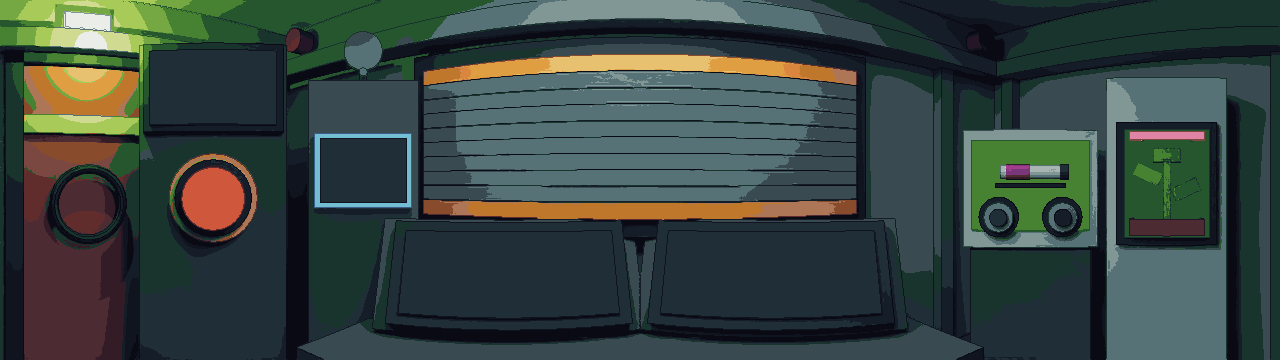
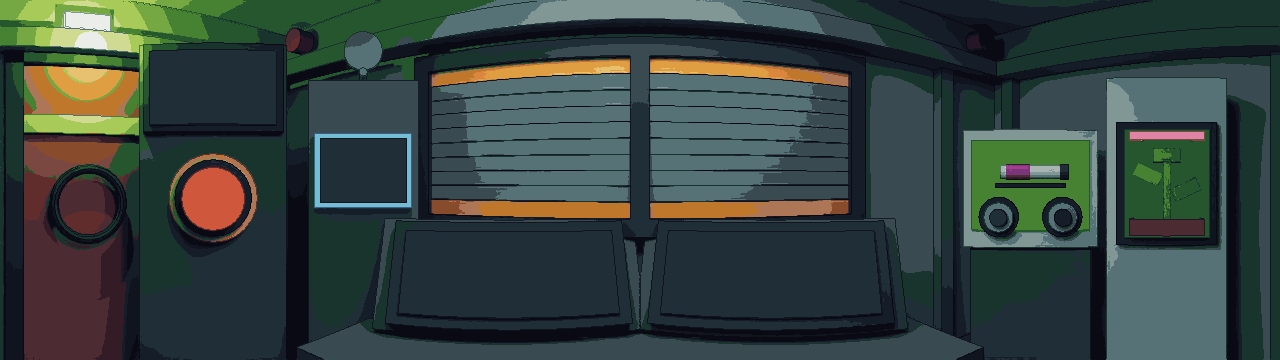
Põe a persiana dentro do vão, atrás da moldura de aço
No Blender a persiana vai para entre a moldura e o vidro, na largura exata do vão: a moldura e o montante a tapam. abrigo.png e abrigo_aberto.png são renderizados de novo. gerar_persiana.py usa o vidro mais o aro de 1 a 5 px que a persiana, mais rasa, mostra entre as paredes internas da moldura, sem o montante; o teste confere que nada da camada cai sobre o montante.

Claude-Session: https://claude.ai/code/session_01GWdXbiKWWM8P9F8LBcwyo6

Changed region(s): [[0.3125, 0.1222, 0.6875, 0.6417]]

diff --git a/scripts/gerar_persiana.py b/scripts/gerar_persiana.py
@@ -1,30 +1,33 @@
 """Separa a persiana da janela dos PNGs do cômodo (Pillow, numpy e scipy).
 
 Uso:
-    ~/.local/bin/blender -b --factory-startup -P $PWD/arte/blender/comodo.py -- --estados abrigo_aberto
+    ~/.local/bin/blender -b --factory-startup -P $PWD/arte/blender/comodo.py -- --estados abrigo,abrigo_aberto
     scripts/gerar_persiana.py
 
-A persiana fica 6,5 cm na frente da moldura (arte/blender/comodo.py), então no abrigo ela cobre o
-vidro, o montante central e as bordas da janela. O Blender renderiza o estado extra `abrigo_aberto`
-(mesma luz do abrigo, sem a persiana, vidro em alpha 0) direto em assets/comodo/abrigo_aberto.png.
-Este script usa a diferença entre abrigo.png e esse render e escreve em assets/comodo/:
+A persiana fica dentro do vão da janela, entre a moldura de aço e o vidro (arte/blender/comodo.py),
+então a moldura e o montante central a tapam. O vidro (alfa 0 em normal.png) é o vão visto até o
+fundo. Em volta dele, de 1 a 5 px, a persiana, mais rasa que o vidro, ainda aparece entre as
+paredes internas da moldura (em normal.png ali se vê a parede da moldura). A máscara da persiana
+é o vidro mais esse aro. O Blender renderiza o estado extra `abrigo_aberto` (mesma luz do abrigo,
+sem a persiana, vidro em alfa 0) direto em assets/comodo/abrigo_aberto.png. Este script escreve em assets/comodo/:
 
-- persiana.png: a persiana (pixels de abrigo.png dentro da máscara), o resto transparente;
+- persiana.png: a persiana, ou seja, os pixels de abrigo.png dentro da máscara, o resto transparente;
 - persiana_indice.png: em cinza, a lâmina de cada pixel da persiana (R = lâmina * 20 + 10, de 0 a 9;
   255 fora dela). O shader (shaders/persiana.gdshader) mostra só as lâminas até a do progresso;
-- abrigo_aberto.png, reescrito: o render do Blender dentro da máscara e abrigo.png fora dela.
+- abrigo_aberto.png, reescrito: o render do Blender dentro da máscara (vidro em alfa 0, parede da
+  moldura no aro) e abrigo.png fora dela.
 
-A máscara é onde os dois PNGs diferem, depois de fechar buracos de 1 px (fechamento 3x3), preencher
-os furos e ficar só com o maior pedaço. Fora da persiana os dois renders diferem em pontos soltos
-(a luz que a persiana reflete, e o ruído do render): ficam fora da máscara, e ali o abrigo_aberto
-copia o abrigo, para a camada sobre ele refazer o abrigo.png pixel a pixel.
+A máscara é o pedaço conectado de pixels em que abrigo.png e o render sem persiana diferem,
+até ARO px do vidro. Os dois renders diferem também mais longe (a luz que a persiana reflete e o
+ruído): esses pixels ficam fora da máscara, e ali o abrigo_aberto copia o abrigo, para a camada
+sobre ele refazer o abrigo.png pixel a pixel. O script diz quantos são.
 
 A persiana tem N_PERSIANA = 10 lâminas (arte/blender/comodo.py), separadas por 9 linhas escuras de
 1 px. Em cada linha, acha os pixels escuros perto da posição esperada, ajusta uma curva suave
 (polinômio, descartando os pontos fora da curva) e cola a linha no pixel escuro mais próximo da
-curva. A linha pertence à lâmina de cima. Nas colunas sem vidro (montante e bordas) a linha vem das
-colunas vizinhas, e cada pixel fica na lâmina da mesma altura. Falha se alguma coluna de vidro
-ficar sem as 10 lâminas.
+curva. A linha (de 1 ou 2 px, conta o último) pertence à lâmina de cima. No aro, fora das colunas
+do vidro, a linha vem das colunas vizinhas e cada pixel fica na lâmina da mesma altura. Falha se
+alguma coluna de vidro ficar sem as 10 lâminas.
 """
 import sys
 from pathlib import Path
@@ -37,10 +40,11 @@ RAIZ = Path(__file__).resolve().parent.parent
 COMODO = RAIZ / "assets" / "comodo"
 N_LAMINAS = 10
 COLUNA_REFERENCIA = 620  # coluna em que as 9 linhas aparecem inteiras
-LIMIAR_ESCURO = 90  # soma de R+G+B até aqui é linha entre lâminas
+LIMIAR_ESCURO = 125  # soma de R+G+B até aqui é linha entre lâminas (de 1 ou 2 px)
 JANELA = 5  # px, de busca em volta da posição esperada
 GRAU = 4
 TOLERANCIA = 1.2  # px, entre o ponto e a curva
+ARO = 6  # px em volta do vidro onde ainda se procura persiana (0 = só o vidro)
 
 
 def carregar(nome):
@@ -62,7 +66,7 @@ def linhas_entre_laminas(abrigo, vidro, mascara):
     colunas = np.where(tem)[0]
     altura = (base - topo + 1).astype(float)
     xr = COLUNA_REFERENCIA
-    ref = [y for y in range(topo[xr], base[xr] + 1) if escuro[y, xr]]
+    ref = [y for y in range(topo[xr], base[xr] + 1) if escuro[y, xr] and not escuro[y + 1, xr]]
     if len(ref) != N_LAMINAS - 1:
         sys.exit("coluna %d tem %d linhas escuras, esperava %d" % (xr, len(ref), N_LAMINAS - 1))
     todas = np.arange(abrigo.shape[1])
@@ -73,7 +77,7 @@ def linhas_entre_laminas(abrigo, vidro, mascara):
         xs, ds = [], []
         for x in colunas:
             achados = [y for y in range(topo[x], base[x] + 1)
-                       if escuro[y, x] and abs(y - esperada[x]) <= JANELA]
+                       if escuro[y, x] and not escuro[y + 1, x] and abs(y - esperada[x]) <= JANELA]
             if achados:
                 xs.append(x)
                 ds.append(min(achados, key=lambda y: abs(y - esperada[x])) - esperada[x])
@@ -83,30 +87,31 @@ def linhas_entre_laminas(abrigo, vidro, mascara):
             coef = np.polyfit(xs[manter], ds[manter], GRAU)
             manter = np.abs(ds - np.polyval(coef, xs)) <= TOLERANCIA
         curva = esperada + np.polyval(coef, todas)
-        # sem vidro (montante e bordas): a curva das colunas vizinhas
-        curva_ext = np.interp(todas, colunas, curva[colunas])
-        curva = np.where(tem, curva, curva_ext)
+        # no aro, fora das colunas do vidro: a curva das colunas vizinhas
+        curva = np.where(tem, curva, np.interp(todas, colunas, curva[colunas]))
         for x in colunas_mascara:
             ys = np.where(mascara[:, x])[0]
             perto = [y for y in range(int(curva[x]) - 1, int(curva[x]) + 3)
-                     if ys[0] <= y <= ys[-1] and escuro[y, x]
+                     if ys[0] <= y <= ys[-1] and escuro[y, x] and not escuro[y + 1, x]
                      and abs(y - curva[x]) <= (1.5 if tem[x] else 2.0)]
             linhas[k, x] = min(perto, key=lambda y: abs(y - curva[x])) if perto else round(curva[x])
     return linhas
 
 
 def mascara_da_persiana(abrigo, aberto, vidro):
-    """Onde abrigo.png e o render sem persiana diferem: fecha buracos de 1 px, preenche furos e
-    fica com o maior pedaço (o resto são pontos soltos de luz e ruído fora da persiana)."""
-    diferem = (abrigo != aberto).any(axis=2)
-    diferem = ndi.binary_closing(diferem, structure=np.ones((3, 3)))
-    diferem = ndi.binary_fill_holes(diferem)
-    rotulos, n = ndi.label(diferem, structure=np.ones((3, 3)))
-    tamanhos = ndi.sum(diferem, rotulos, range(1, n + 1))
-    mascara = rotulos == (int(np.argmax(tamanhos)) + 1)
-    if not mascara[vidro].all():
-        sys.exit("há vidro fora da máscara da persiana")
-    return mascara
+    """O vidro mais o aro em volta dele (menos o montante) onde abrigo.png e o render sem persiana diferem (o maior
+    pedaço conectado de cada vão, para largar pontos soltos de luz e ruído)."""
+    perto = ndi.binary_dilation(vidro, structure=np.ones((3, 3)), iterations=ARO)
+    # o montante, entre os dois vãos, é só moldura: nenhum pixel da persiana ali
+    cols = np.where(vidro.any(axis=0))[0]
+    montante = np.zeros_like(vidro)
+    montante[:, cols[0]:cols[-1] + 1] = True
+    perto &= ~(montante & ~vidro.any(axis=0)[None, :])
+    candidatos = ndi.binary_fill_holes(((abrigo != aberto).any(axis=2) & perto) | vidro)
+    rotulos, n = ndi.label(candidatos, structure=np.ones((3, 3)))
+    # um pedaço por vão (o montante separa os dois); o que não toca o vidro é ruído
+    com_vidro = np.unique(rotulos[vidro])
+    return np.isin(rotulos, com_vidro[com_vidro > 0])
 
 
 def indice_das_laminas(abrigo, vidro, mascara):
@@ -134,6 +139,7 @@ def main():
         sys.exit("o vidro de abrigo_aberto.png não bate com o de normal.png: rode o Blender antes")
 
     mascara = mascara_da_persiana(abrigo, aberto, vidro)
+    fora = int(((abrigo != aberto).any(axis=2) & ~mascara).sum())
     indice = indice_das_laminas(abrigo, vidro, mascara)
 
     persiana = np.zeros_like(abrigo)
@@ -146,8 +152,8 @@ def main():
     limpo = np.where(mascara[:, :, None], aberto, abrigo)
     Image.fromarray(limpo.astype(np.uint8), "RGBA").save(COMODO / "abrigo_aberto.png", optimize=True)
 
-    print("%d px de persiana (%d de vidro), %d lâminas, escrito em %s"
-          % (mascara.sum(), vidro.sum(), N_LAMINAS, COMODO))
+    print("%d px de persiana (%d de vidro e %d de aro); %d px diferem fora dela e ficam de fora; "
+          "escrito em %s" % (mascara.sum(), vidro.sum(), (mascara & ~vidro).sum(), fora, COMODO))
 
 
 if __name__ == "__main__":

diff --git a/arte/blender/comodo.py b/arte/blender/comodo.py
@@ -8,11 +8,12 @@ Uso (da raiz do repo):
 Fonte da verdade: este script. Nenhum .blend é salvo nem lido.
 Mesma câmera em todos os estados. A geometria também é a mesma, com uma única exceção
 permitida: a persiana da janela, que só o estado `abrigo` fecha. O estado muda luz e emissão.
-A persiana fica 6,5 cm na frente da moldura, então no `abrigo` ela cobre também o montante
-central e as bordas da janela, não só o vidro. Por isso há o estado extra `abrigo_aberto`: a
-mesma luz e emissão do `abrigo`, sem a persiana e com o vidro em alpha 0. Ele não entra no padrão
-de `--estados` (renderize com `--estados abrigo_aberto`); scripts/gerar_persiana.py usa a
-diferença entre `abrigo` e `abrigo_aberto` como a camada da persiana.
+A persiana fica dentro do vão da janela, entre a moldura de aço e o vidro, com a largura exata
+do vão: a moldura e o montante central a tapam e continuam visíveis por cima dela. Há o estado
+extra `abrigo_aberto`: a mesma luz e emissão do `abrigo`, sem a persiana e com o vidro em alpha 0.
+Ele não entra no padrão de `--estados` (renderize com `--estados abrigo,abrigo_aberto`);
+scripts/gerar_persiana.py usa a diferença entre `abrigo` e `abrigo_aberto` como a camada da
+persiana.
 
 A janela larga do centro não leva vista assada: o vidro sai com alpha 0 no PNG (menos no
 `abrigo`, onde a persiana o cobre) e o Godot põe a vista de Marte atrás, por composição. A vista
@@ -373,8 +374,9 @@ def construir():
     pitch = (jz1 - jz0) / N_PERSIANA
     for k in range(N_PERSIANA):
         mat_s = faixa if k in (0, N_PERSIANA - 1) else blindagem
-        PERSIANA.append(caixa(f"persiana_{k}", (0.0, F - 0.115, jz0 + (k + 0.5) * pitch),
-                              (jl + 0.04, 0.03, pitch + 0.004), mat_s, next(i)))
+        # dentro do vão: atrás da moldura (F-0,10 a F), na frente do vidro (F-0,02), na largura dele
+        PERSIANA.append(caixa(f"persiana_{k}", (0.0, F - 0.06, jz0 + (k + 0.5) * pitch),
+                              (jl, 0.03, pitch + 0.004), mat_s, next(i)))
 
     # bancada baixa e, atrás dela, a rampa: duas faces inclinadas, cada uma virada (em guinada)
     # para o olho, como um console que envolve quem olha. Cada tela fica rente à sua face, e assim
